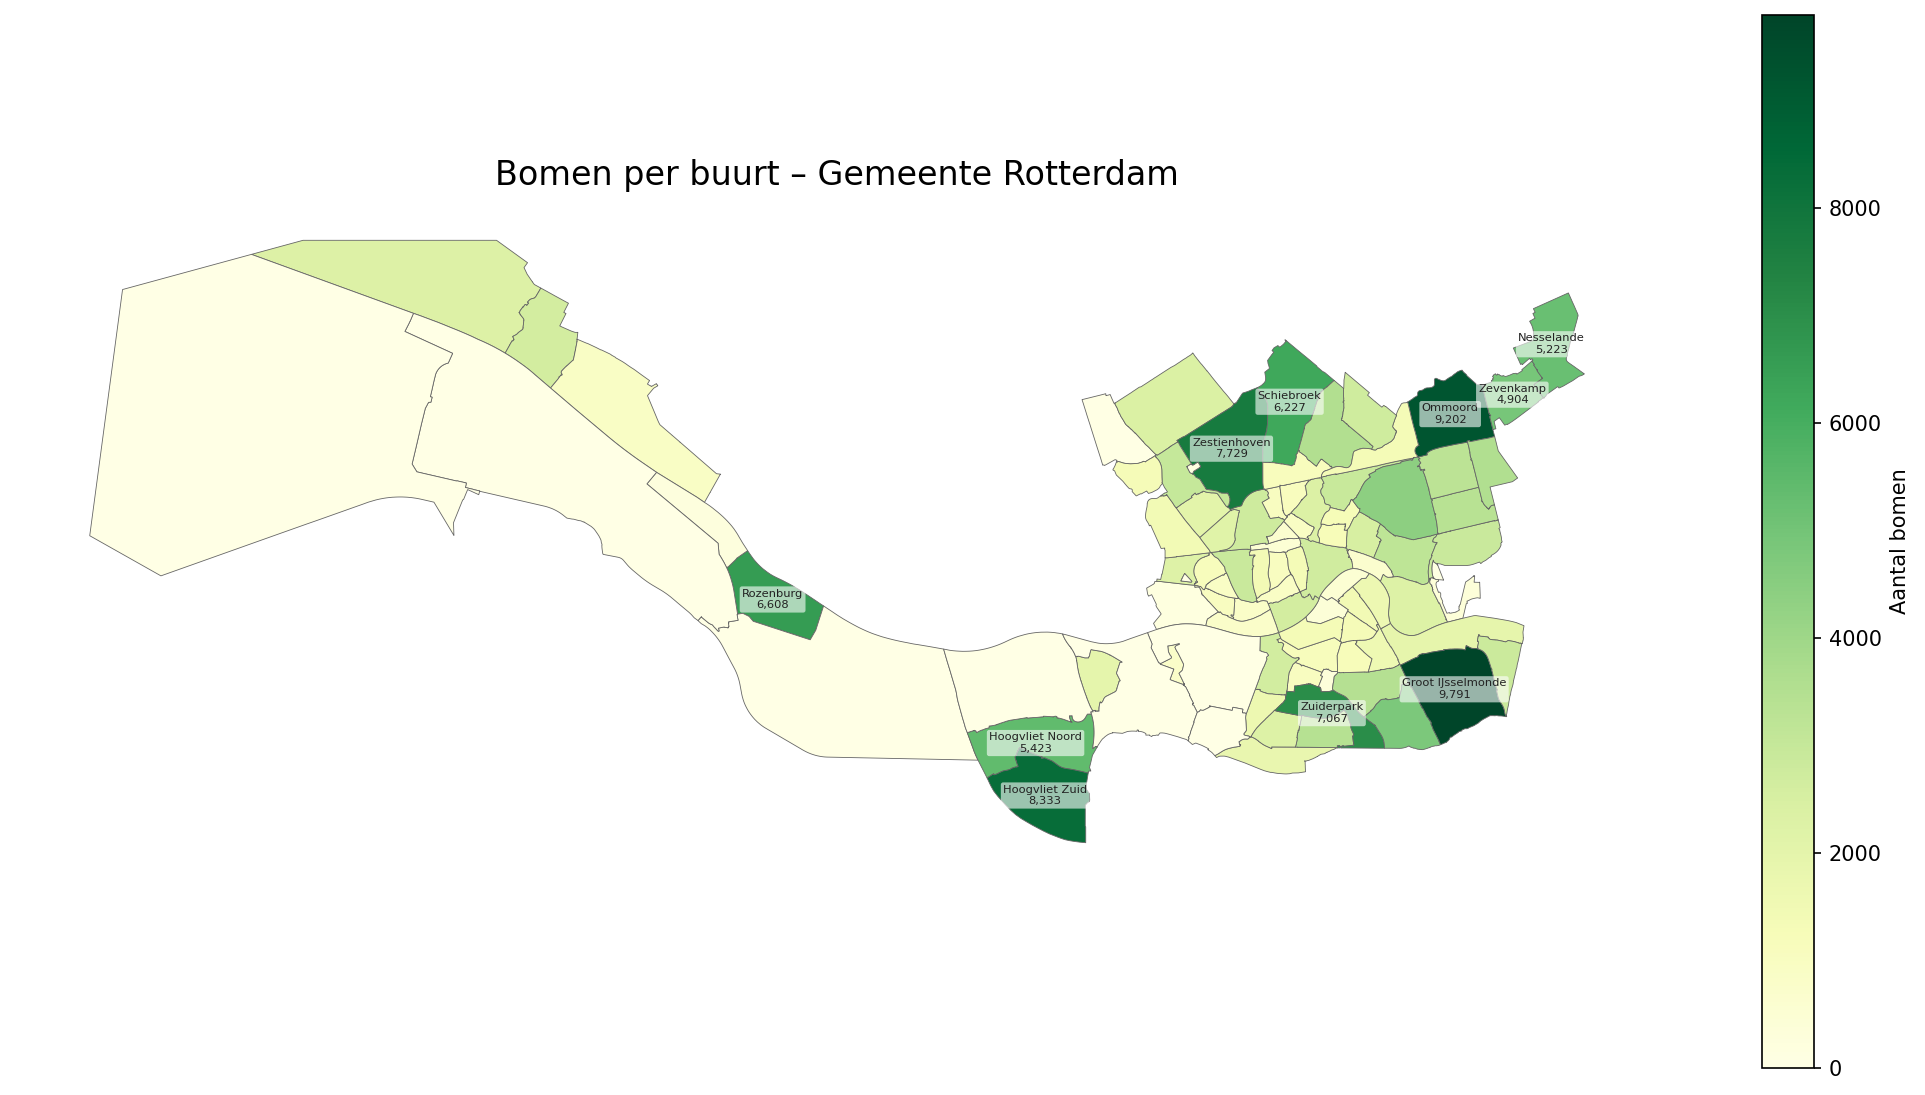
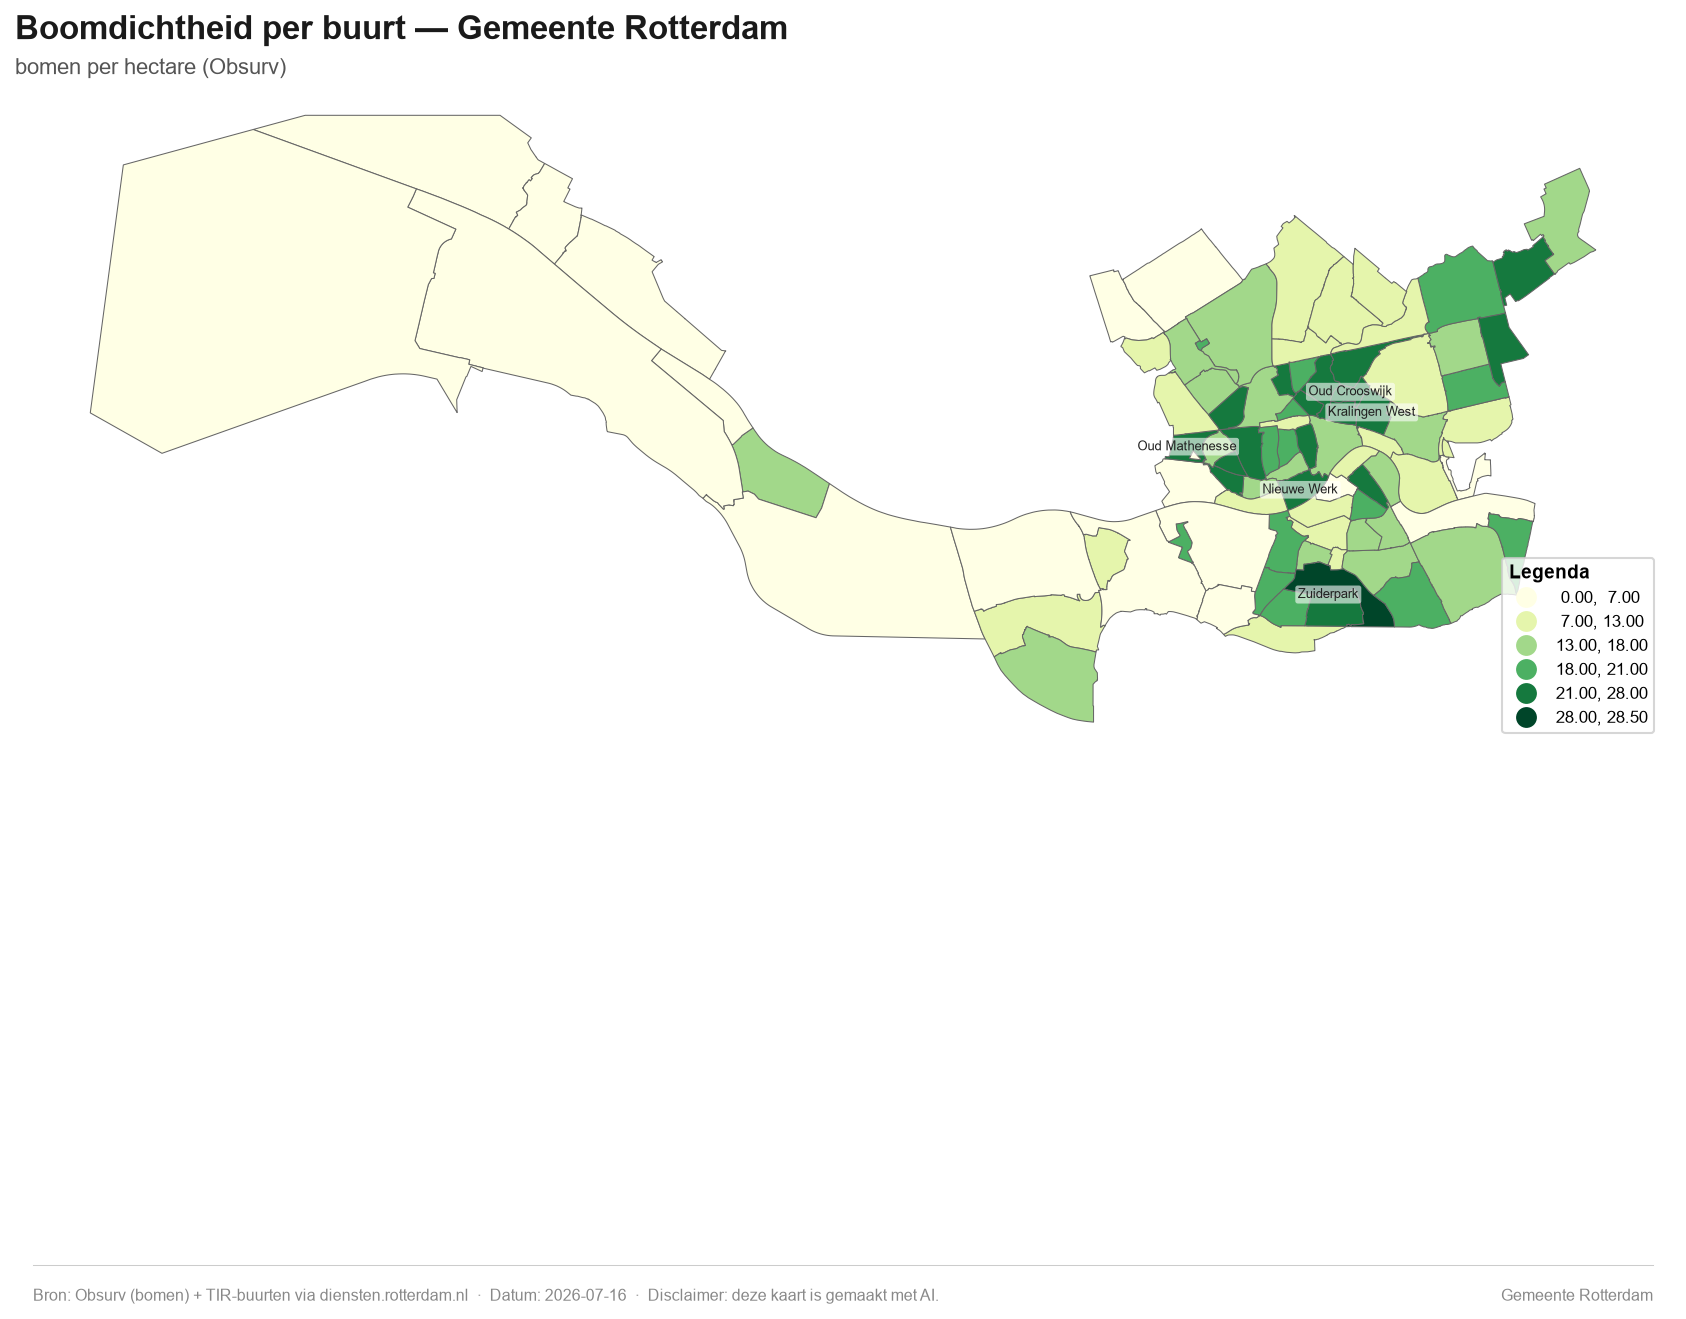
Migratie: bomen_per_buurt naar de library + genormaliseerd
Ruwe-count choropleet (schond invariant 3) omgezet naar bomen per hectare via
de library choropleth() + finalize_map + validate_map + save_map. Titel/subtitel/
footer volgens conventie; validate_map schoon (normalized=True). Interactieve
Folium-kaart ongewijzigd gelaten.

diff --git a/output/scripts/bomen_per_buurt.py b/output/scripts/bomen_per_buurt.py
@@ -8,7 +8,11 @@ import matplotlib.colors as mcolors
 import folium
 from pathlib import Path
 
+import sys
 ROOT = Path(__file__).resolve().parents[2]
+sys.path.insert(0, str(ROOT / "General data"))
+from rotterdam import choropleth, finalize_map, save_map, validate_map
+
 BASE = ROOT / "General data" / "Data"
 OUT  = ROOT / "output" / "maps"
 
@@ -31,40 +35,34 @@ counts = joined.groupby("BUURTNAAM").size().reset_index(name="aantal_bomen")
 buurten = buurten.merge(counts, on="BUURTNAAM", how="left")
 buurten["aantal_bomen"] = buurten["aantal_bomen"].fillna(0).astype(int)
 
+# Normaliseren (invariant 3): bomen per hectare i.p.v. ruwe aantallen
+buurten["opp_ha"] = buurten.geometry.area / 10_000.0
+buurten["bomen_per_ha"] = (buurten["aantal_bomen"] / buurten["opp_ha"]).round(1)
+
 top10 = buurten.nlargest(10, "aantal_bomen")[["BUURTNAAM", "GEBDNAAM", "aantal_bomen"]]
 print("\nTop 10 buurten met meeste bomen:")
 print(top10.to_string(index=False))
 
-# ── 4. Statische choropleth (PNG) ─────────────────────────────────────────────
+# ── 4. Statische choropleet (genormaliseerd: bomen per hectare) ──────────────
 print("\nStatische kaart opslaan...")
-fig, ax = plt.subplots(1, 1, figsize=(14, 12))
-buurten.plot(
-    column="aantal_bomen",
-    cmap="YlGn",
-    legend=True,
-    legend_kwds={"label": "Aantal bomen", "shrink": 0.6},
-    edgecolor="#666666",
-    linewidth=0.4,
-    ax=ax,
-    missing_kwds={"color": "#eeeeee", "label": "Geen data"},
+fig, ax = choropleth(
+    buurten, "bomen_per_ha", cmap="YlGn",
+    title="Boomdichtheid per buurt — Gemeente Rotterdam",
+    subtitle="bomen per hectare (Obsurv)",
 )
-# Voeg buurtnamen toe voor top 10
-for _, row in buurten.nlargest(10, "aantal_bomen").iterrows():
-    cx = row.geometry.centroid.x
-    cy = row.geometry.centroid.y
+# top-5 dichtste buurten labelen
+for _, row in buurten.nlargest(5, "bomen_per_ha").iterrows():
+    c = row.geometry.representative_point()
     ax.annotate(
-        f"{row['BUURTNAAM']}\n{row['aantal_bomen']:,}",
-        xy=(cx, cy), ha="center", va="center",
-        fontsize=5.5, color="#222222",
+        str(row["BUURTNAAM"]), xy=(c.x, c.y), ha="center", va="center",
+        fontsize=6, color="#222222",
         bbox=dict(boxstyle="round,pad=0.2", fc="white", alpha=0.6, ec="none"),
     )
-ax.set_title("Bomen per buurt – Gemeente Rotterdam", fontsize=16,
-             fontweight="bold", pad=12)
-ax.set_axis_off()
-plt.tight_layout()
-out_png = OUT / "bomen_per_buurt.png"
-plt.savefig(out_png, dpi=150, bbox_inches="tight")
-plt.close()
+finalize_map(fig, source="Obsurv (bomen) + TIR-buurten via diensten.rotterdam.nl")
+warns = validate_map(fig, ax, data=buurten, normalized=True)
+if warns:
+    print("Waarschuwingen:", *warns, sep="\n  - ")
+out_png = save_map(fig, "bomen_per_buurt")
 print(f"  Opgeslagen: {out_png}")
 
 # ── 5. Interactieve Folium choropleth (HTML) ──────────────────────────────────